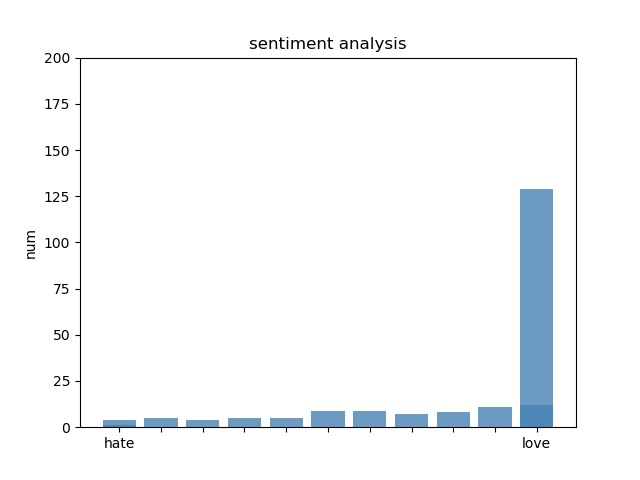
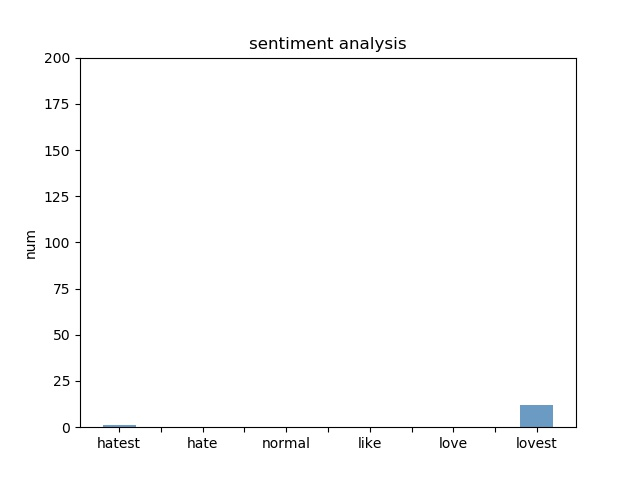
''

Changed region(s): [[0.1562, 0.375, 0.875, 0.9375]]

diff --git a/doubanshow/common/wordCloud.py b/doubanshow/common/wordCloud.py
@@ -13,21 +13,12 @@ from wordcloud import WordCloud
 
 
 def wordCloud(text, movie_id):
-
     original_text = text
-
     wordList = jieba.cut(original_text)
-
-    print('全文分词完成...')
-
     tags = analyse.extract_tags(original_text, topK=500, withWeight=False)
-
-    print('关键词筛选完成...')
-
     stags = " ".join(tags)
     with open(BASE_DIR+'\doubanshow\common\stopwords.txt', 'r', encoding='utf-8') as f :
         stopwords = list(f.read().split('\n'))
-
     outstr = ''
     for word in wordList:
         if word in stags:
@@ -44,7 +35,6 @@ def wordCloud(text, movie_id):
         max_font_size=60)
     # 设置词云参数，字体，模板，背景白色，最大词量100个，最大字体尺寸60
     word_cloud = cloud.generate(outstr)  # 产生词云数据 word_cloud
-
     path = BASE_DIR+'/static/img/'+movie_id+'.jpg'
     word_cloud.to_file(path)
 

diff --git a/doubanshow/common/snownlp.py b/doubanshow/common/snownlp.py
@@ -25,7 +25,7 @@ def pltView(list, path):
         # 添加标题
         plt.title('sentiment analysis')
         # 添加刻度标签
-        plt.xticks(range(11), ['hate', '', '', '', '', '', '', '', '', '', 'love'])
+        plt.xticks(range(11), ['hatest', '', 'hate', '', 'normal', '', 'like', '', 'love', '', 'lovest'])
         # 设置Y轴的刻度范围
         plt.ylim([0, 200])
 

diff --git a/doubanshow/views.py b/doubanshow/views.py
@@ -106,6 +106,8 @@ def movieDetail(request):
                 'message':'SUCCESS',
                 'data':{
                     'word_clould': img.file
+                    'short_sentiment_img': xxoo.img,
+                    'movie_sentiment_img': xxoo.img,
                     'short_comment': [
                         {
                             'id':xxoo,

diff --git a/doubanshow/common/fuzzySearch.py b/doubanshow/common/fuzzySearch.py
@@ -9,9 +9,3 @@ def searchResult(search_content, movies, limit):
 
     return process.extract(query=search_content, choices=movies, limit=limit)
 
-
-
-
-a = ['123', '46', '78']
-
-print(process.extract('12',a))
